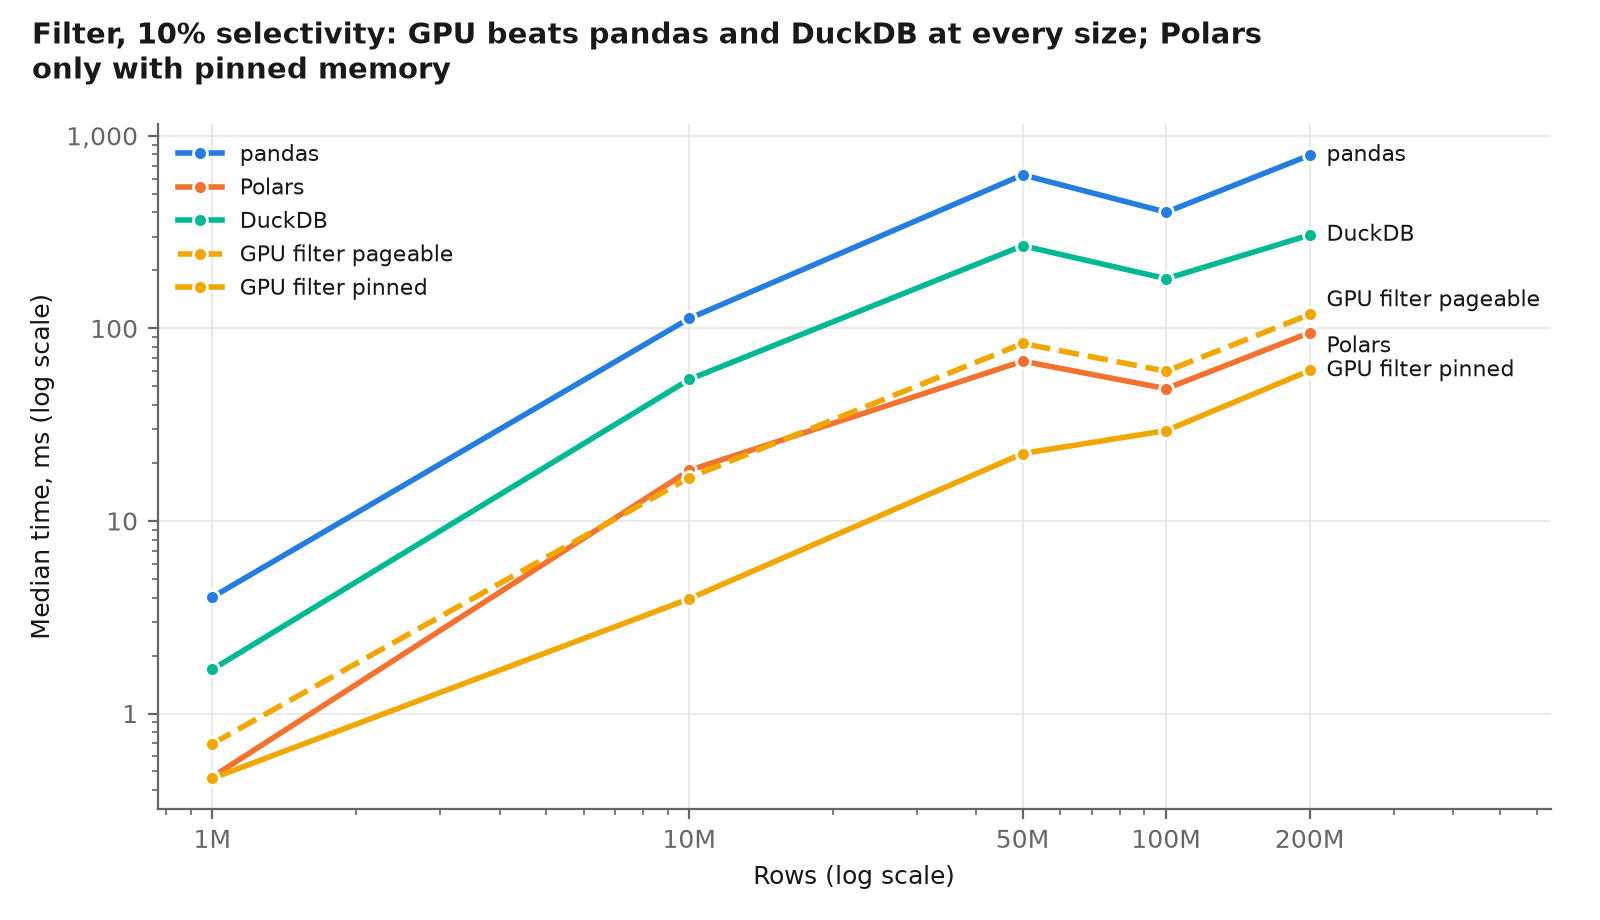
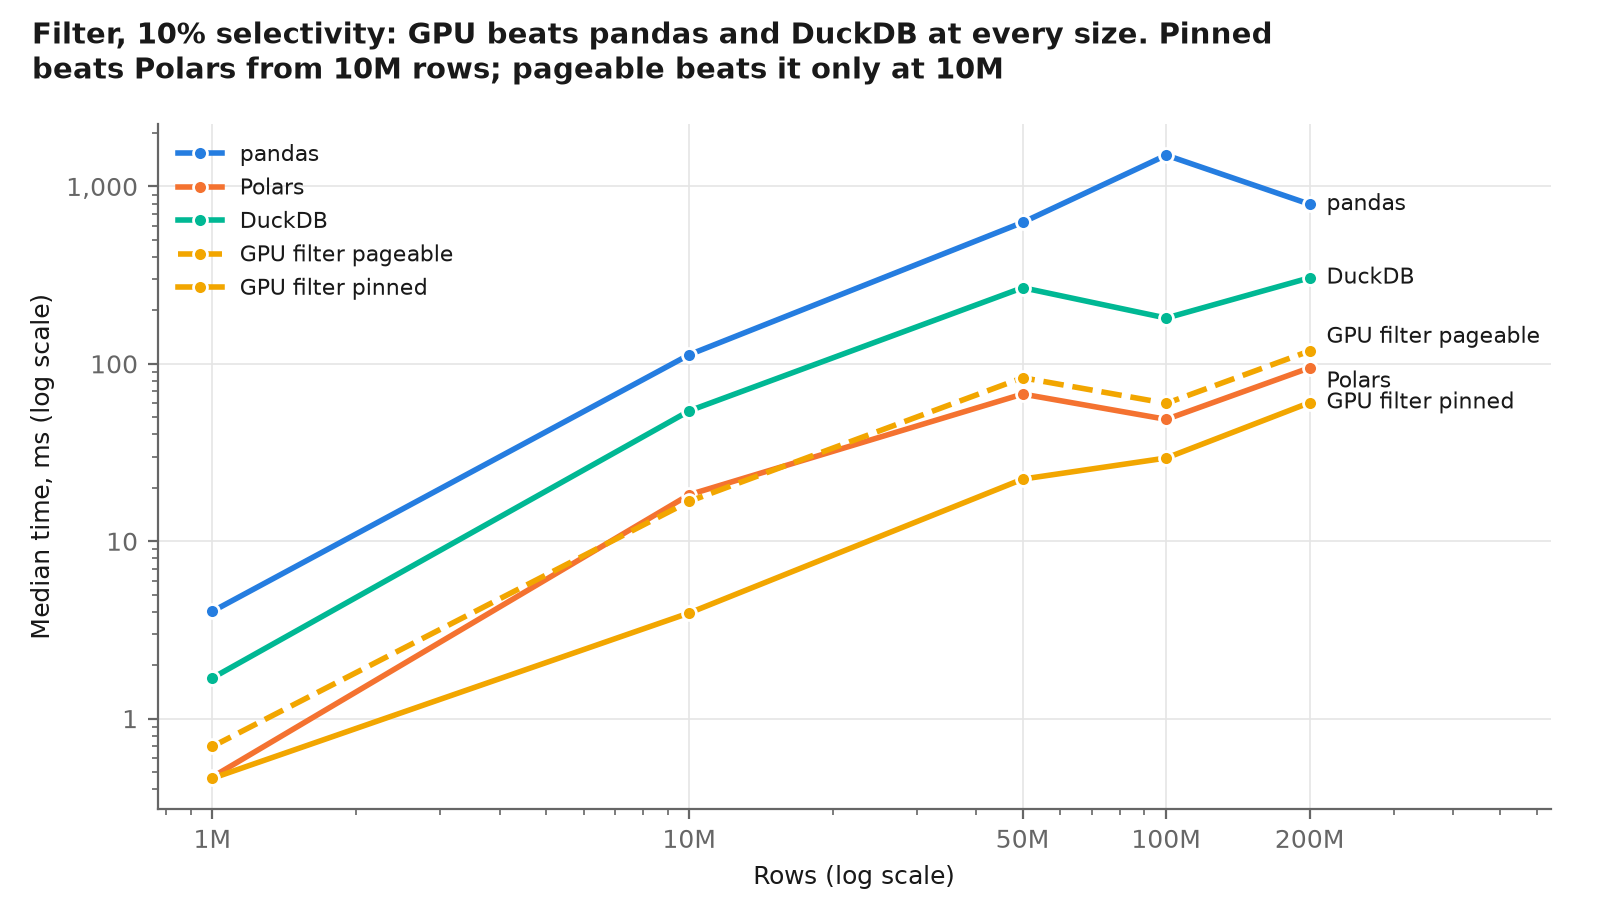
Fix filter chart title; update noisy pandas 100M filter point
Chart 1 title now says pageable beats Polars only at 10M. pandas 100M at
10% rerun 3x (1676, 1501, 413 ms): median 1501 ms replaces 401 ms in
filter.csv. DuckDB 100M repeats (186 vs 181 ms) and is unchanged.

diff --git a/benchmarks/plot.py b/benchmarks/plot.py
@@ -82,7 +82,7 @@ def filter_crossover(f):
     ax.set_xlim(right=sizes[-1] * 3.2)  # room for the end labels
     ax.legend(loc="upper left", fontsize=8)
     save(fig, "filter_crossover.png", "Filter, 10% selectivity: GPU beats pandas and DuckDB at "
-         "every size; Polars only with pinned memory")
+         "every size. Pinned beats Polars from 10M rows; pageable beats it only at 10M")
 
 
 def filter_time_split(f):

diff --git a/docs/known-issues.md b/docs/known-issues.md
@@ -11,7 +11,7 @@
 - Group-by needs the caller to give expected_groups. Too low gives an error, too high wastes memory.
 - Group-by output is in slot (hash) order, not key order.
 - CPU rerun, 3x each (2026-11-26): Polars 1K Zipf 100M 701/718/711 ms (repeats); Polars 1K 10M 49-55 ms uniform, 63-65 ms Zipf (repeats); DuckDB 1M uniform 100M 4175/6473/8673 ms (noisy, 2x spread; median of runs is within 5% of the CSV).
-- Filter pandas and DuckDB are faster at 100M than at 50M (401 vs 627 ms pandas). It is visible as a dip in `filter_crossover.png`.
+- Filter rerun at 10%, 3x each (2026-11-26): pandas 100M gave 1676/1501/413 ms (two modes, fast and slow; cause unknown). The CSV now has 1501 ms (was 401). pandas 200M (793 ms) is now the suspect point, as it is faster than 100M. DuckDB 100M repeats (186/186/197 vs 181 ms). DuckDB 50M is noisy (262/363/293 ms), so its dip at 100M is probably 50M noise.
 - Chart titles are fixed text. Rerun the benchmarks and the titles can be wrong.
 - Group-by rerun (2026-11-26, both strategies): the old GPU 10M 1K-groups point (7.7 ms) is now 1.99 ms, below e2e_pinned. Still suspect: Polars 1K Zipf at 100M is 710 ms vs 106 ms uniform (also 717 ms in the first run, so it repeats; cause unknown). Polars 1K groups at 10M is 48 ms, 4.8 ms per 1M rows, vs 1.1 ms per 1M rows at 100M. DuckDB 1M uniform groups at 100M is 6815 ms, 4x its Zipf time.
 - Group-by with 1M groups: the table is 2M slots x 16 bytes = 32 MB, about the size of the L2 cache, so the random atomics go to DRAM. That is why 1M groups is slower than 1K groups.

diff --git a/docs/progress.md b/docs/progress.md
@@ -18,6 +18,7 @@
 - Block vs global kernel_only: 10 groups 5.4 to 7.4x faster, 1K groups 1.3 to 1.8x faster, 1M groups uniform about equal (5.6% slower at 100M), 1M groups Zipf 2.8 to 3.1x faster.
 - Block e2e pinned now beats Polars at 10 groups: 5.1 vs 10.4 ms at 10M, 43.1 vs 88.4 ms at 100M (uniform), about 2x.
 - `benchmarks/plot.py` writes 4 PNGs to `docs/figures/` (filter crossover, filter time split, group-by by groups, block speedup).
+- Filter pandas 100M 10% rerun: `filter.csv` updated 401 to 1501 ms. Chart 1 title fixed.
 - Reran suspect CPU points 3x each: none changed more than 20%, so `groupby.csv` stays.
 - /reflect: 4 new rules in CLAUDE.md (int64 sums in every engine, check cited paths with gh api, run new tests red first, racecheck and synccheck for kernels with barriers).
 
